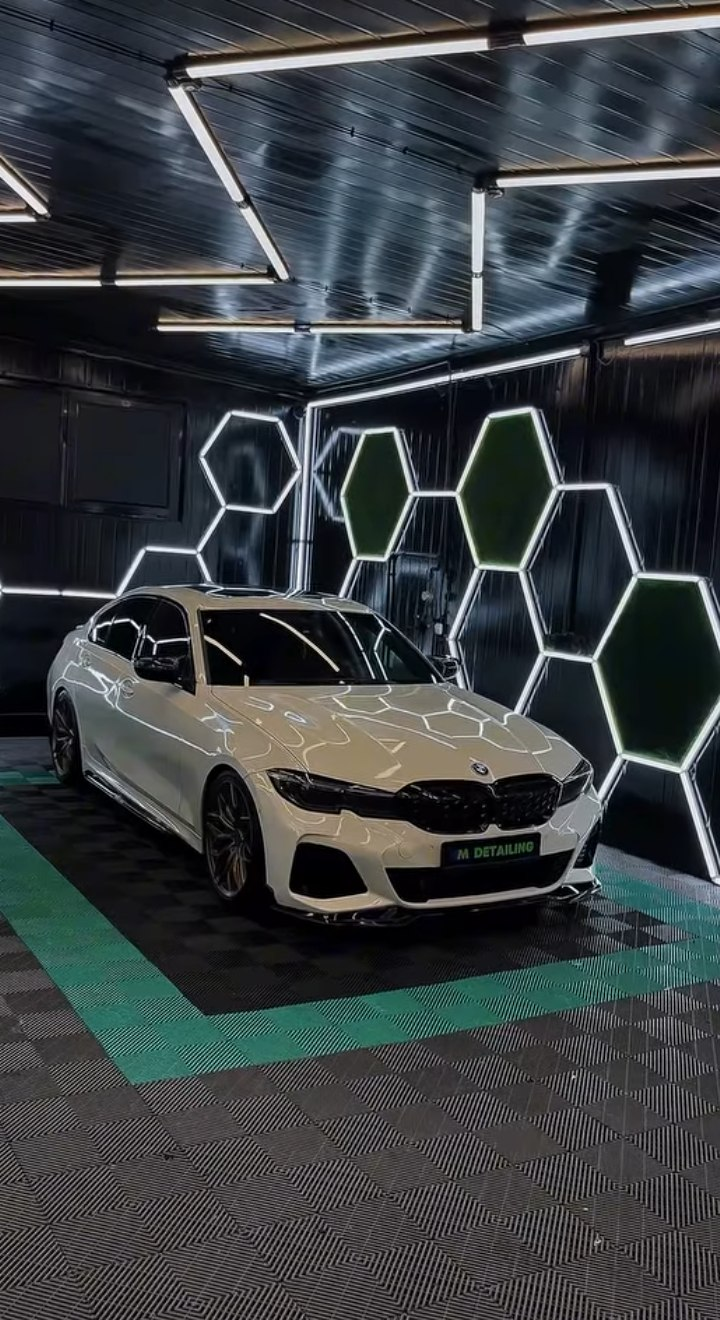
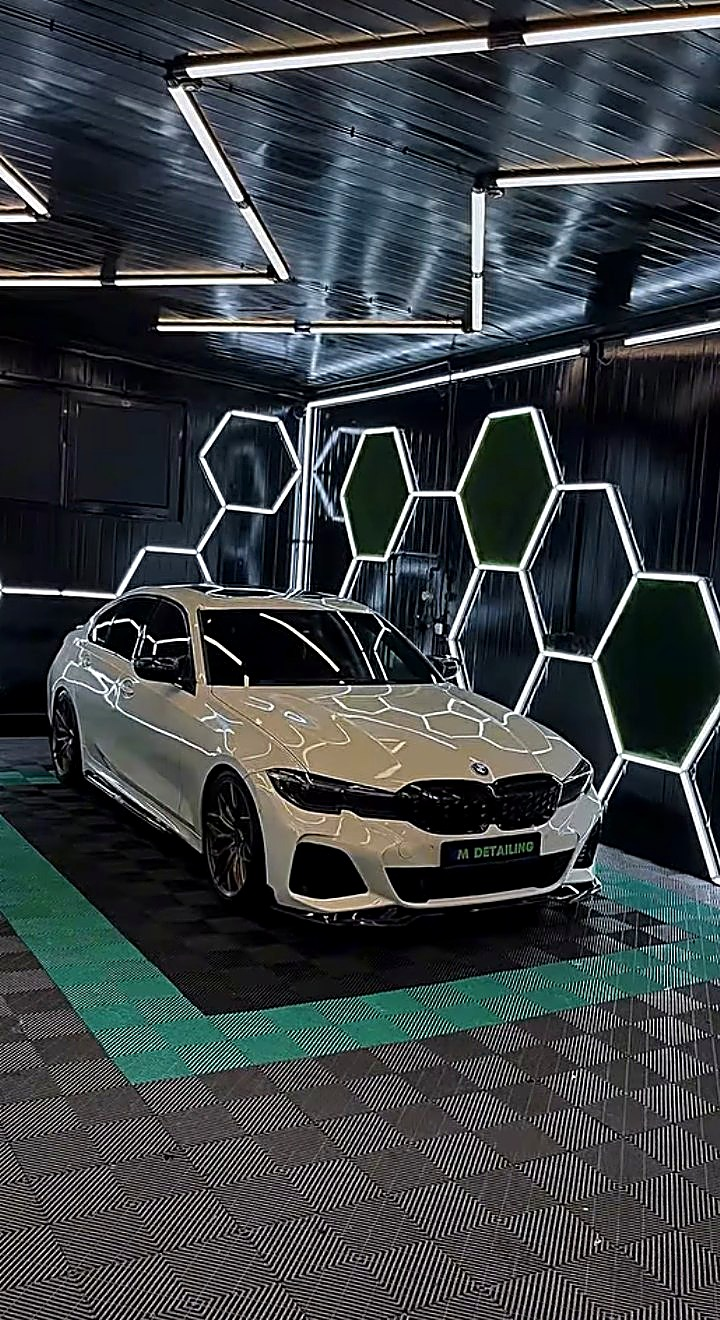
Fix blurry/stretched hero photo on wide desktop screens

diff --git a/nm-detailing/css/style.css b/nm-detailing/css/style.css
@@ -185,7 +185,12 @@ p { color: var(--text-dim); }
 .hex-glow.blue { background: var(--blue); top: -10%; left: -8%; }
 .hex-glow.green { background: var(--green); bottom: -18%; right: -10%; }
 
-/* hero background photo */
+/* hero background photo
+   Source is a portrait phone photo (720px wide). Full-bleed cover on a
+   wide desktop viewport would upscale it 2-3x and look soft, so above
+   ~900px we contain it to a right-hand panel instead of stretching it
+   across the whole hero — same trick keeps mobile (narrow viewport,
+   close to native width) crisp with full-bleed cover. */
 .hero-photo {
   position: absolute;
   inset: 0;
@@ -207,6 +212,22 @@ p { color: var(--text-dim); }
     linear-gradient(0deg, rgba(10,10,10,0.9) 0%, rgba(10,10,10,0.1) 32%, transparent 55%),
     linear-gradient(200deg, rgba(46,94,255,0.22), transparent 45%),
     linear-gradient(20deg, rgba(57,255,106,0.16), transparent 40%);
+}
+
+@media (min-width: 900px) {
+  .hero-photo { left: 38%; }
+  .hero-photo img { object-position: 50% 28%; }
+  .hero-photo-overlay {
+    background:
+      linear-gradient(90deg, var(--bg) 0%, var(--bg) 8%, rgba(10,10,10,0.75) 22%, transparent 55%),
+      linear-gradient(0deg, rgba(10,10,10,0.85) 0%, rgba(10,10,10,0.05) 30%, transparent 55%),
+      linear-gradient(200deg, rgba(46,94,255,0.18), transparent 45%),
+      linear-gradient(20deg, rgba(57,255,106,0.14), transparent 40%);
+  }
+}
+
+@media (min-width: 1400px) {
+  .hero-photo { left: 44%; }
 }
 
 /* ============================================================
